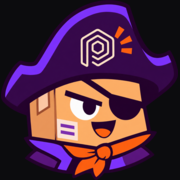
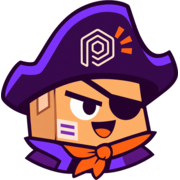
style(m4): light theme to match the company's apps
Same layout and purple/orange accents as the prototype, on light
surfaces: white tiles with a soft border and shadow, darker accent text
shades for contrast on white, and the activity heatmap scale inverted
(light lavender to deep purple). Apple icon gets a white background.

diff --git a/src/app/globals.css b/src/app/globals.css
@@ -1,47 +1,49 @@
 @import "tailwindcss";
 
 /*
- * Shiplog's design system, ported from the prototype (docs/ARCHITECTURE.md §7): dark theme only,
- * a fixed sidebar and a "bento" main area of rounded tiles. Purple (roxo) for active and primary,
- * orange (laranja) for alerts. Tokens are Tailwind theme variables; components are plain classes.
+ * Shiplog's design system, from the prototype's layout (docs/ARCHITECTURE.md §7): light theme, to
+ * match the company's other apps. A fixed sidebar and a "bento" main area of rounded white tiles.
+ * Purple (roxo) for active and primary, orange (laranja) for alerts. Tokens are Tailwind theme
+ * variables; components are plain classes.
  */
 @theme {
-  --color-bg: #050506;
-  --color-surface: #0c0c0e;
-  --color-raised: #141417;
-  --color-hover: #1a1a1e;
-  --color-line: #222227;
-  --color-line-strong: #33333a;
-  --color-tile: #101013;
-  --color-tile-hi: #16161a;
-  --color-text: #ededef;
-  --color-muted: #8b8b94;
-  --color-faint: #5b5b64;
-  --color-ink: #f4f4f5;
-  --color-ink-text: #0a0a0b;
+  --color-bg: #f5f5f8;
+  --color-surface: #ffffff;
+  --color-raised: #ececf1;
+  --color-hover: #ececf1;
+  --color-line: #e6e6eb;
+  --color-line-strong: #d4d4dc;
+  --color-tile: #ffffff;
+  --color-tile-hi: #f6f6f9;
+  --color-text: #17171c;
+  --color-muted: #5f5f6b;
+  --color-faint: #85858f;
+  --color-ink: #17171c;
+  --color-ink-text: #ffffff;
   --color-roxo: #7136ff;
-  --color-roxo-text: #a88bff;
+  --color-roxo-text: #5b25e0;
   --color-laranja: #ff6633;
-  --color-laranja-text: #ffa585;
-  --color-ok: #3fc466;
-  --color-ok-text: #6fdc8f;
-  --color-warn: #e9a32a;
-  --color-del: #ff7b72;
+  --color-laranja-text: #c2410c;
+  --color-ok: #22a755;
+  --color-ok-text: #15803d;
+  --color-warn: #d18a0f;
+  --color-del: #d4352b;
   --font-sans: var(--font-geist-sans), "Inter", system-ui, sans-serif;
   --font-mono: var(--font-geist-mono), ui-monospace, Menlo, monospace;
 }
 
 :root {
-  --edge: rgba(255, 255, 255, 0.06);
-  --roxo-soft: rgba(113, 54, 255, 0.14);
-  --roxo-line: rgba(113, 54, 255, 0.45);
-  --laranja-soft: rgba(255, 102, 51, 0.12);
-  --ok-soft: rgba(63, 196, 102, 0.12);
-  --g0: #141417;
-  --g1: #2a1a5e;
-  --g2: #4a26b0;
+  --edge: rgba(23, 23, 28, 0.08);
+  --shadow: 0 1px 2px rgba(23, 23, 28, 0.04), 0 1px 1px rgba(23, 23, 28, 0.02);
+  --roxo-soft: rgba(113, 54, 255, 0.09);
+  --roxo-line: rgba(113, 54, 255, 0.35);
+  --laranja-soft: rgba(255, 102, 51, 0.1);
+  --ok-soft: rgba(34, 167, 85, 0.1);
+  --g0: #ececf1;
+  --g1: #d8ccff;
+  --g2: #a98bff;
   --g3: #7136ff;
-  --g4: #b49bff;
+  --g4: #4a1fc2;
   --r: 8px;
   --r-md: 14px;
   --r-xl: 24px;
@@ -50,7 +52,7 @@
   --pad: 28px;
   --gap: 14px;
   --top: 64px;
-  color-scheme: dark;
+  color-scheme: light;
 }
 
 * {
@@ -439,7 +441,7 @@ h3 {
   white-space: nowrap;
 }
 .cta:hover {
-  background: #fff;
+  background: #2b2b33;
 }
 .cta .count {
   background: var(--color-ink-text);
@@ -465,6 +467,7 @@ main.view {
   background: var(--color-tile);
   border: 1px solid var(--edge);
   border-radius: var(--r-xl);
+  box-shadow: var(--shadow);
   min-width: 0;
 }
 .pad {
@@ -549,7 +552,7 @@ main.view {
   color: var(--color-muted);
 }
 .stat.hot {
-  background: linear-gradient(160deg, rgba(255, 102, 51, 0.1), transparent 55%), var(--color-tile);
+  background: linear-gradient(160deg, rgba(255, 102, 51, 0.08), transparent 55%), var(--color-tile);
 }
 .stat .k {
   font-size: 12px;
@@ -568,7 +571,7 @@ main.view {
   display: flex;
   flex-direction: column;
   gap: 6px;
-  background: radial-gradient(120% 90% at 100% 0%, rgba(113, 54, 255, 0.22), transparent 60%), var(--color-tile);
+  background: radial-gradient(120% 90% at 100% 0%, rgba(113, 54, 255, 0.1), transparent 60%), var(--color-tile);
 }
 .hero .v {
   font-size: 96px;
@@ -933,7 +936,7 @@ table.tbl {
   border-bottom: 0;
 }
 .tbl tr:hover td {
-  background: rgba(255, 255, 255, 0.02);
+  background: rgba(23, 23, 28, 0.02);
 }
 .tbl .n,
 .mr .n {
@@ -1325,6 +1328,7 @@ table.mr {
   flex-direction: column;
   min-width: 0;
   overflow: hidden;
+  box-shadow: var(--shadow);
 }
 .ac-h {
   display: flex;
@@ -1569,6 +1573,7 @@ table.mr {
   background: var(--color-tile);
   border-radius: var(--r-xl);
   overflow: hidden;
+  box-shadow: var(--shadow);
 }
 .box-h {
   display: flex;
@@ -1755,6 +1760,7 @@ textarea:focus,
   background: var(--color-tile);
   border-radius: var(--r-xl);
   overflow: hidden;
+  box-shadow: var(--shadow);
 }
 .uc {
   display: grid;
@@ -1878,7 +1884,7 @@ textarea:focus,
     display: block;
     position: fixed;
     inset: 0;
-    background: rgba(0, 0, 0, 0.6);
+    background: rgba(23, 23, 28, 0.35);
     z-index: 15;
   }
   main.view {
@@ -1960,7 +1966,7 @@ textarea:focus,
   display: grid;
   place-items: center;
   padding: 24px 16px;
-  background: radial-gradient(90% 70% at 70% 10%, rgba(113, 54, 255, 0.18), transparent 60%), var(--color-bg);
+  background: radial-gradient(90% 70% at 70% 10%, rgba(113, 54, 255, 0.1), transparent 60%), var(--color-bg);
 }
 .signin-card {
   width: min(100%, 880px);
@@ -1972,6 +1978,7 @@ textarea:focus,
   border: 1px solid var(--edge);
   border-radius: var(--r-xl);
   padding: 40px;
+  box-shadow: var(--shadow);
 }
 .signin-card img {
   width: 100%;

diff --git a/docs/ARCHITECTURE.md b/docs/ARCHITECTURE.md
@@ -237,7 +237,7 @@ each mirrors a web component (draft ↔ ShipmentCard, requester DM ↔ VerifyBut
 ### Styling
 
 - The prototype's CSS tokens become Tailwind 4 `@theme` variables in `src/app/globals.css`.
-- Dark theme only, as in the prototype.
+- Light theme, to match the company's other apps (the prototype was dark; its layout and accents are kept).
 - Fonts: Geist and Geist Mono via `next/font`. Icons: Material Symbols.
 - **Patch**, the pirate mascot (`public/patch-*.svg|png`), is the logo: sidebar mark, favicon (`src/app/icon.png`,
   `apple-icon.png`) and the sign-in page. Prefer him over the old hexagon mark everywhere.
